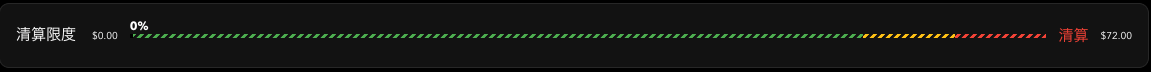
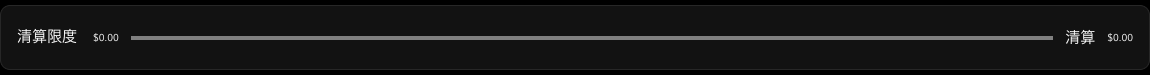
GITBOOK-70: modify how to login page

Changed region(s): [[0.0, 0.3056, 1.0, 0.6111], [0.0, 0.9167, 1.0, 0.9444], [0.0, 0.0278, 1.0, 0.0556]]

diff --git a/yzgaido/roguin.md b/yzgaido/roguin.md
@@ -1,6 +1,48 @@
 ---
 description: ログイン方法
+layout:
+  title:
+    visible: true
+  description:
+    visible: false
+  tableOfContents:
+    visible: true
+  outline:
+    visible: true
+  pagination:
+    visible: true
 ---
 
 # ログイン方法
 
+ページ上部のヘッダーに「ウォレットを接続」と書かれたボタンがあります。
+
+こちらをクリックしてください。
+
+<figure><img src="../.gitbook/assets/Group 31.png" alt=""><figcaption></figcaption></figure>
+
+ウォレットを選択する画面が表示されます。
+
+MetaMask、Rainbow、Coinbase Wallet、WalletConnectからお使いのウォレットを選んでください。
+
+以下、MetaMaskを例に説明します。
+
+<figure><img src="../.gitbook/assets/スクリーンショット 2024-10-12 15.34.59.png" alt=""><figcaption></figcaption></figure>
+
+接続したいアカウントを選択して、「次へ」のボタンを押してください。
+
+<figure><img src="../.gitbook/assets/スクリーンショット 2024-10-12 15.41.10.png" alt=""><figcaption></figcaption></figure>
+
+次の画面で「確認」のボタンを押してください。
+
+<figure><img src="../.gitbook/assets/スクリーンショット 2024-10-12 15.44.56.png" alt=""><figcaption></figcaption></figure>
+
+「ウォレットを接続」のボタンが以下のようにアドレスの表示に変われば、接続完了です
+
+<figure><img src="../.gitbook/assets/image.png" alt=""><figcaption></figcaption></figure>
+
+接続を切断する場合は、上記のアドレスの表示をクリックしてください。
+
+下の画面で「切断する」ボタンをクリックすると、切断が完了します！
+
+<figure><img src="../.gitbook/assets/スクリーンショット 2024-10-12 15.49.49.png" alt=""><figcaption></figcaption></figure>

diff --git a/shi-yang/qing-suan/suttasub.md b/shi-yang/qing-suan/suttasub.md
@@ -11,11 +11,11 @@ description: ステータスバーの見方
 
 プールに担保資産を預け入れるまでは、以下のようなグレーのステータスバーが表示されます。
 
-<figure><img src="../../.gitbook/assets/image.png" alt=""><figcaption></figcaption></figure>
+<figure><img src="../../.gitbook/assets/image (1).png" alt=""><figcaption></figcaption></figure>
 
 担保資産を預け入れますと、以下のようなカラフルな斜線の入ったバーが表示されます。
 
-<figure><img src="../../.gitbook/assets/image (1).png" alt=""><figcaption></figcaption></figure>
+<figure><img src="../../.gitbook/assets/image (1) (1).png" alt=""><figcaption></figcaption></figure>
 
 バーの外側の左の数字は借入額（上の図では $0.00 を表示）、\
 バーの外側の右の数字は清算閾値（上の図では $72.00 を表示）、\
